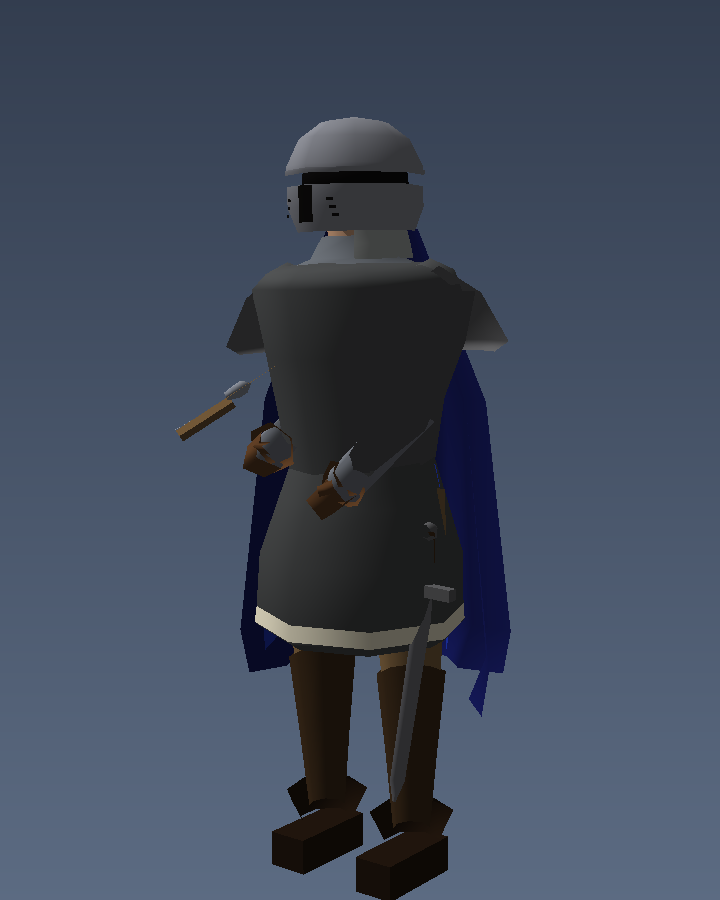
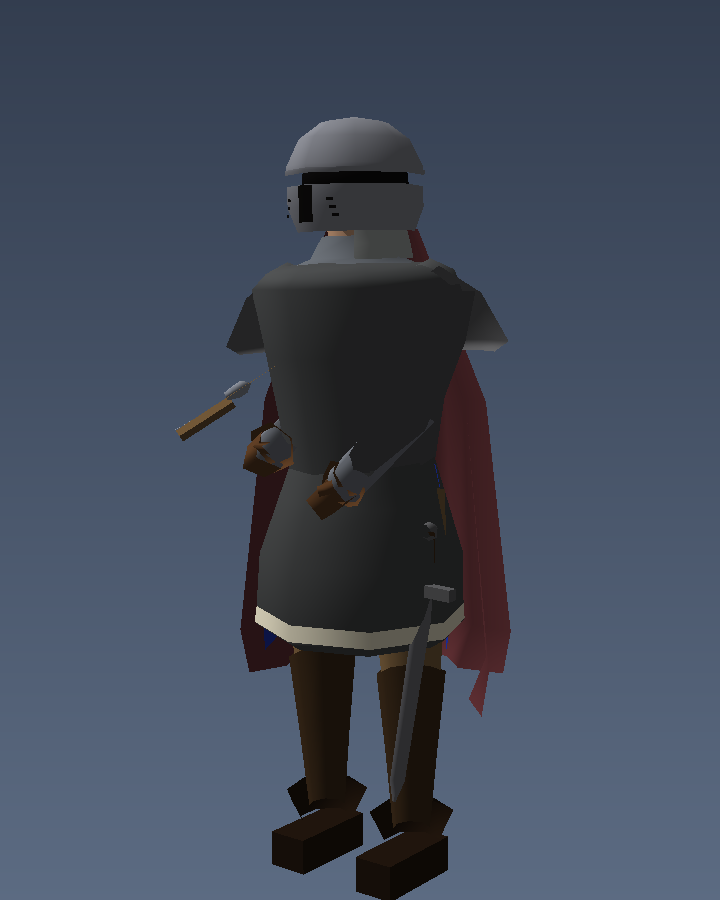
rig: cloak becomes wool so it keeps its own colour
MAT_LINEN is team-dyed, so the authored crimson cape came out the player's
blue -- identical to the surcoat and the mailed body behind it. From abeam the
knight read as one blue cone with a helmet on top, which is what the Armory
screenshot showed.

diff --git a/imperial-crown-v6/src/gfx/rig/wardrobe.js b/imperial-crown-v6/src/gfx/rig/wardrobe.js
@@ -747,13 +747,20 @@ export function buildBelt(g, m) {
 export function buildCape(g, m, colour) {
   if (g.detail > DETAIL.MID) return;
   const { x, y } = m;
-  /* Lifted toward mid grey: a saturated near-black cape reads as a hole in
-     the silhouette rather than as cloth, especially at the shading angles
-     the game's sun actually produces. */
-  g.material(MAT.LINEN).color(
-    colour[0] * 0.75 + 0.18,
-    colour[1] * 0.75 + 0.16,
-    colour[2] * 0.75 + 0.16);
+  /* WOOL, NOT THE TEAM DYE.
+     The cape was MAT_LINEN, which is one of the two team-dyed materials, so
+     the authored crimson was replaced by the player's blue -- the knight's
+     cape, his surcoat and his mailed body were then three nearly identical
+     blues stacked front to back, and from abeam the class read as one blue
+     cone with a helmet on top. A cloak is its own garment in its own cloth;
+     it keeps the colour it was authored with, which is also the thing that
+     tells a lord from his household at a glance.
+     Lifted toward mid value first: a saturated near-black cape reads as a
+     hole in the silhouette rather than as cloth. */
+  g.material(MAT.WOOL).color(
+    colour[0] * 0.85 + 0.10,
+    colour[1] * 0.85 + 0.09,
+    colour[2] * 0.85 + 0.09);
   /* A cape is a lathe cut off at the front: two thirds of a cone. */
   /* Two thirds of a circle, centred on the back: a cape is open at the
      front. A full lathe here wraps the knight in a closed cone. */
